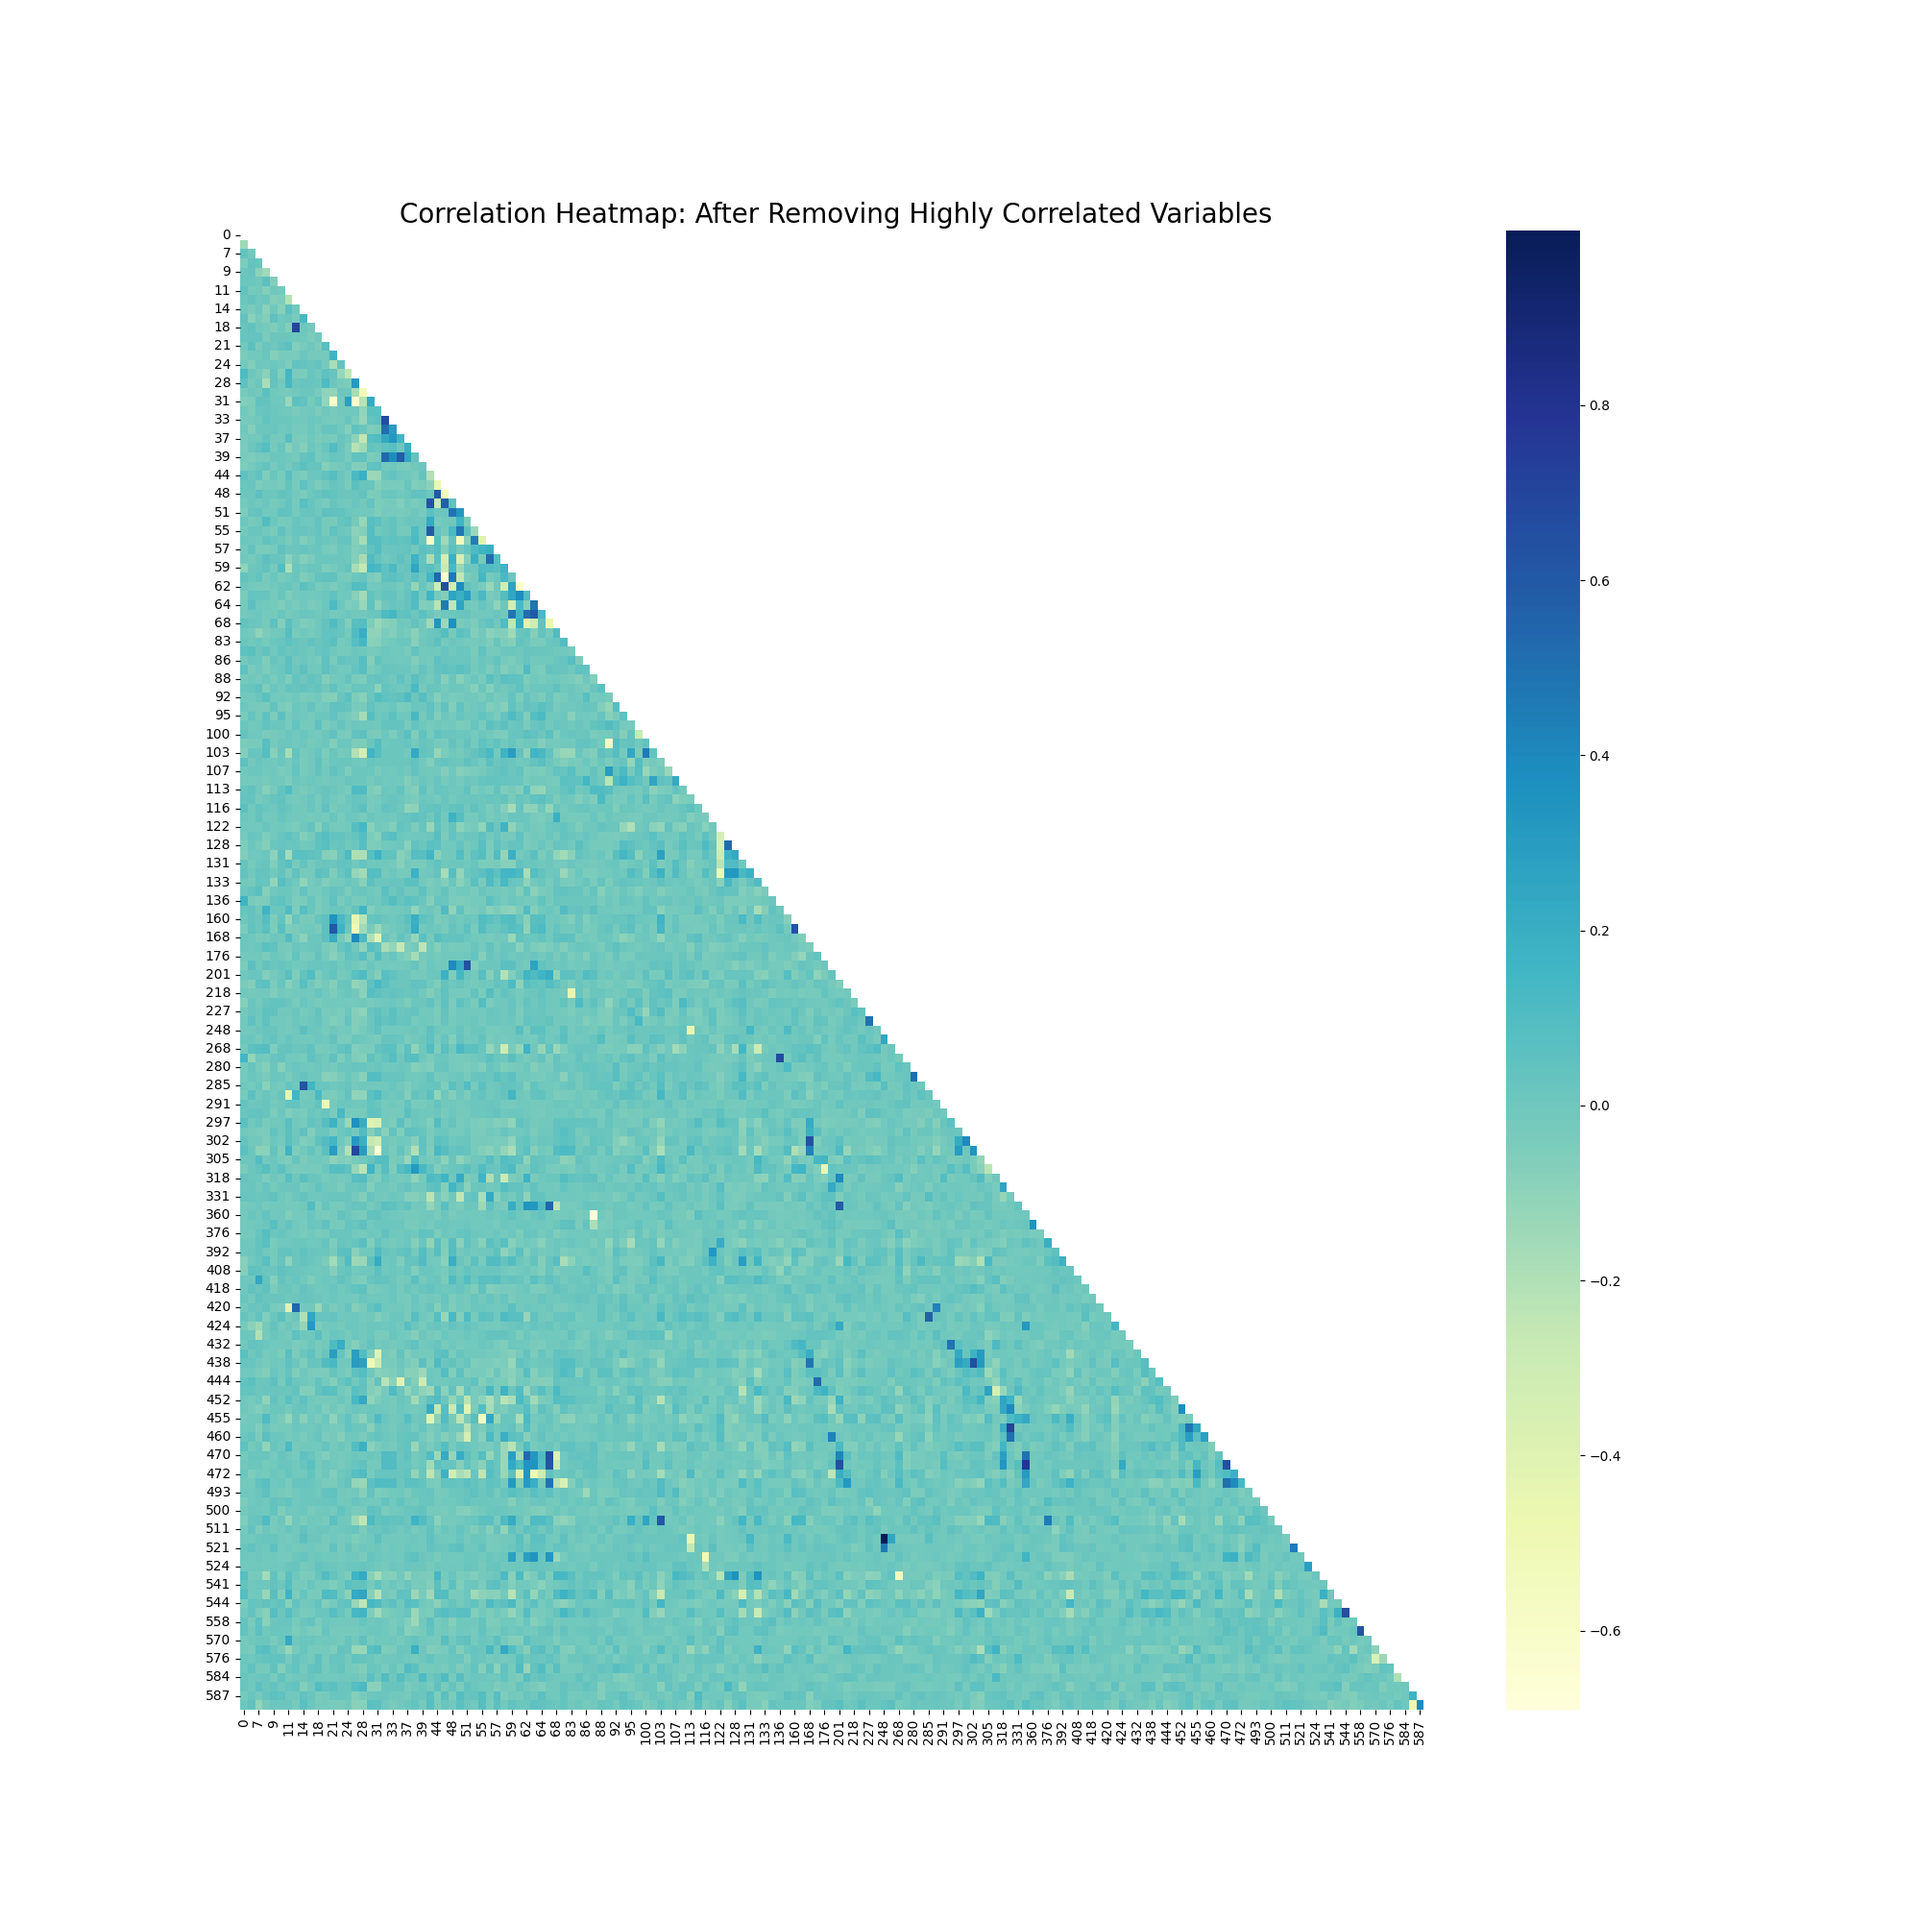
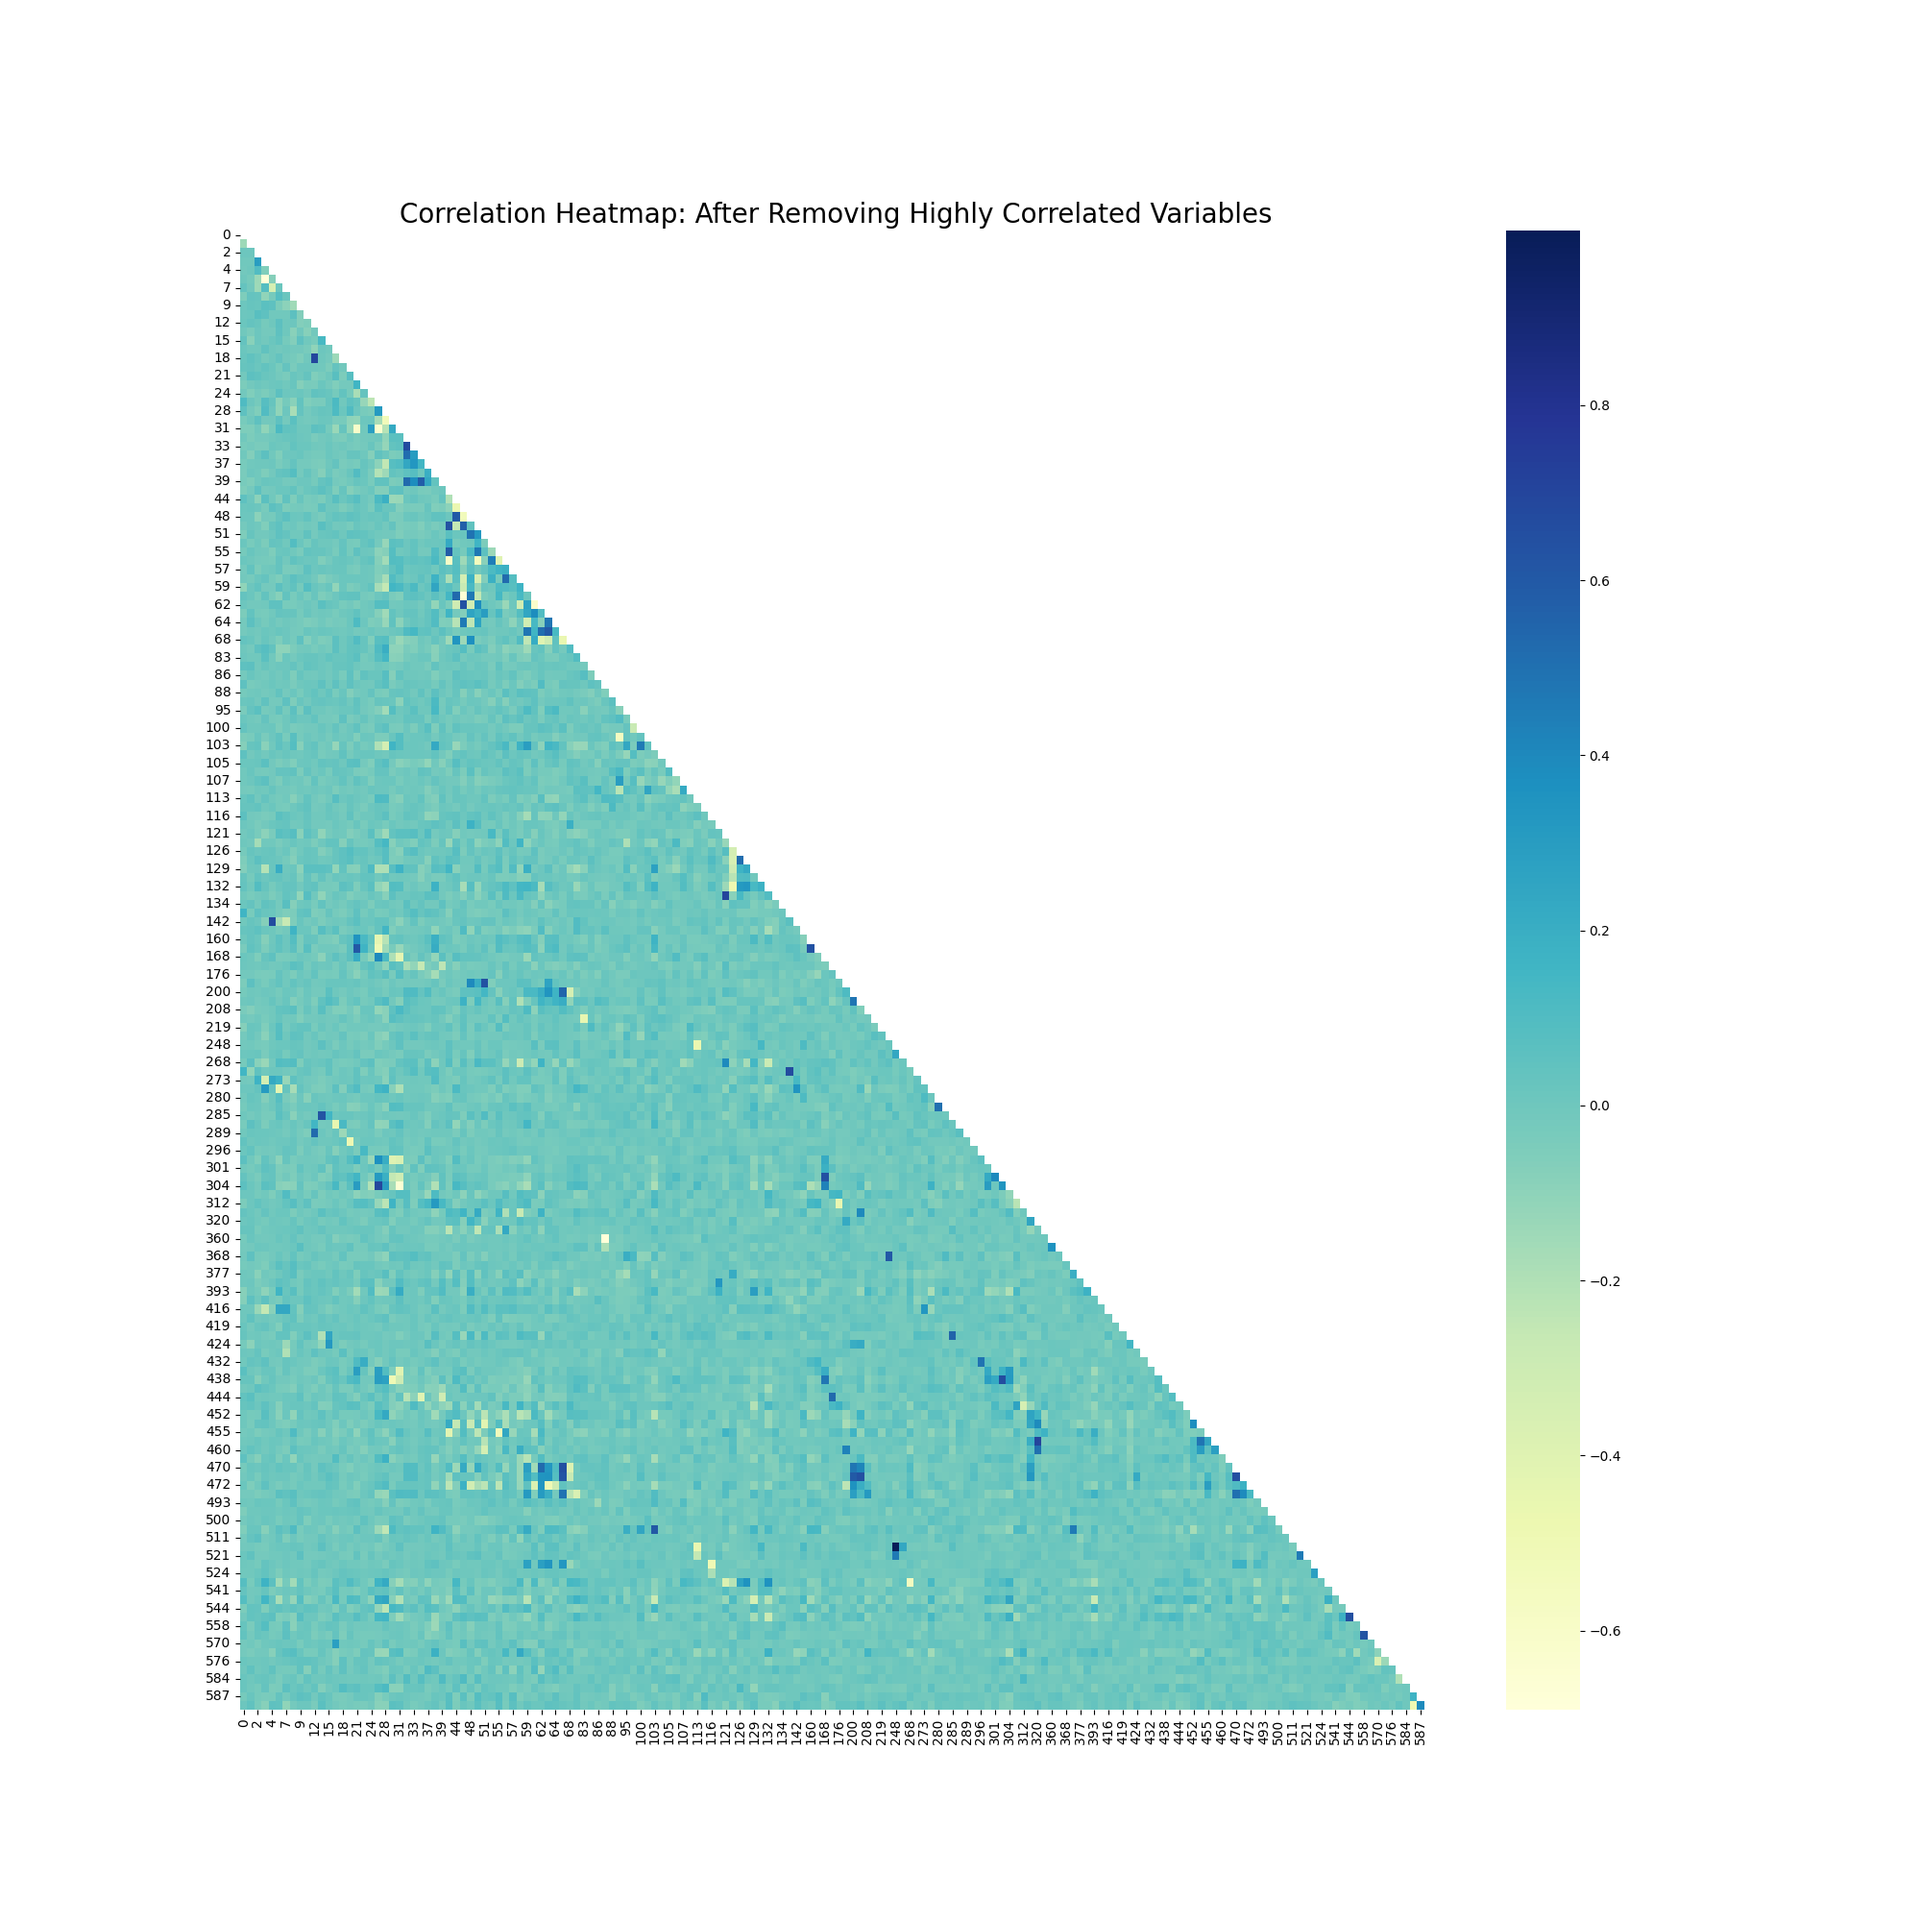
added imputation using the median

Changed region(s): [[0.093, 0.124, 0.744, 0.93]]

diff --git a/Clean_Data/data_cleaning.py b/Clean_Data/data_cleaning.py
@@ -1,6 +1,9 @@
 import seaborn as sns
 import matplotlib.pyplot as plt
 import plotly.express as px
+from sklearn.compose import ColumnTransformer
+from sklearn.impute import SimpleImputer
+import numpy as np
 
 class Clean_Data:
     def all_missing_values_visualizations(self, df, plot_location):
@@ -76,3 +79,21 @@ class Clean_Data:
                                                             xlabel='Columns', 
                                                             ylabel='Rows')
         plt.savefig(f"{plot_location}/missing_values_after_dropped_cols.png", dpi=100)
+
+
+    def imputing_with_median(self, df):
+        df_new=df.copy()
+        df_new.columns=df_new.columns.astype(str)
+
+        imputation_list=[ele for ele in df_new.columns.tolist() if ele not in ['Label', 'Time', 'day_of_week']]
+
+        column_imputation=ColumnTransformer([('imp_col1', 
+                                              SimpleImputer(missing_values=np.nan, strategy='median'), 
+                                              imputation_list)],
+                                              remainder='passthrough')
+        column_imputation.set_output(transform='pandas')
+        df_new=column_imputation.fit_transform(df_new)
+
+        df_new.columns=df.columns.tolist()
+
+        return df_new

diff --git a/main.py b/main.py
@@ -32,9 +32,13 @@ clean_df=clean_data.remove_cols_over_missing_threhsold_val(df=data_df,
 clean_df=clean_data.remove_columns_with_n_unique_vals(df=clean_df,
                                                       unique_value_threshold=unique_value_threshold)
 
+# Imputation Pipeline Using the Median
+clean_df=clean_data.imputing_with_median(df=clean_df)
+
 # Missing Values Heatmap: After Removing Features from Missing Value Percentage and Unique Value Threshold
 clean_data.all_missing_values_after_dropped_cols_visualizations(df=clean_df, 
                                                                 plot_location=eda_visualizatiion_graph_output)
+
 
 
 ################## EDA ##################
